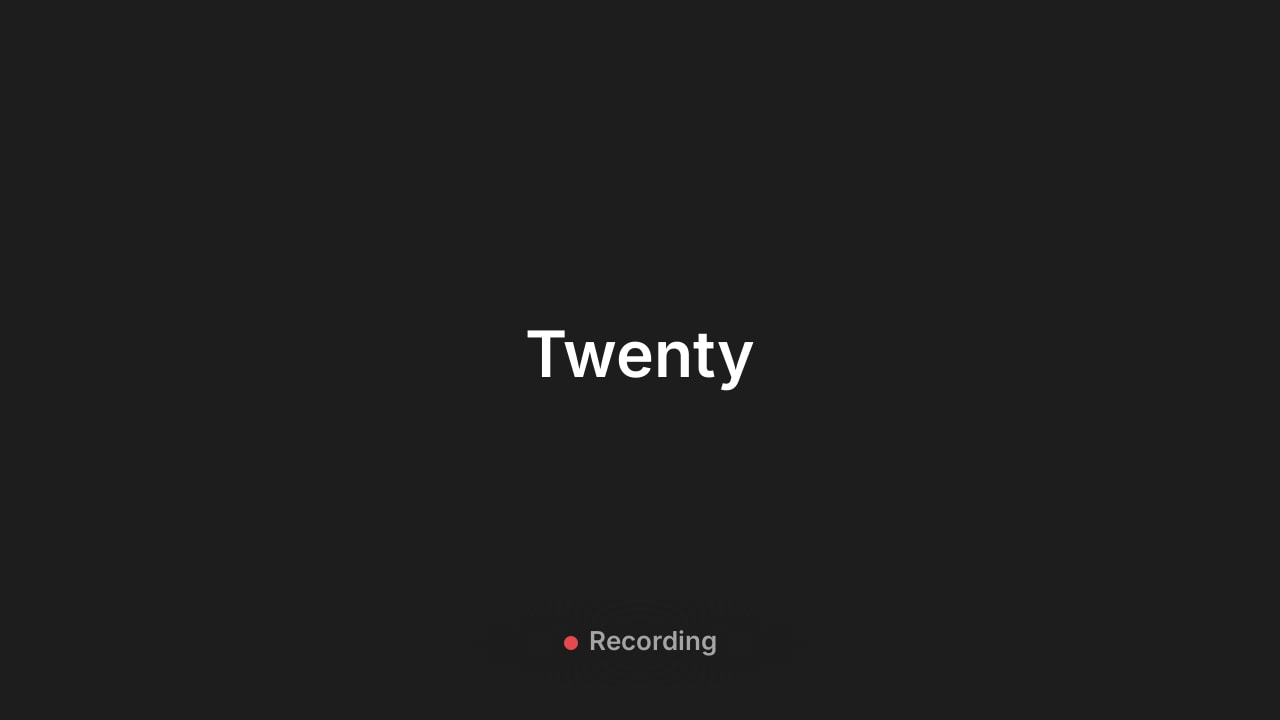
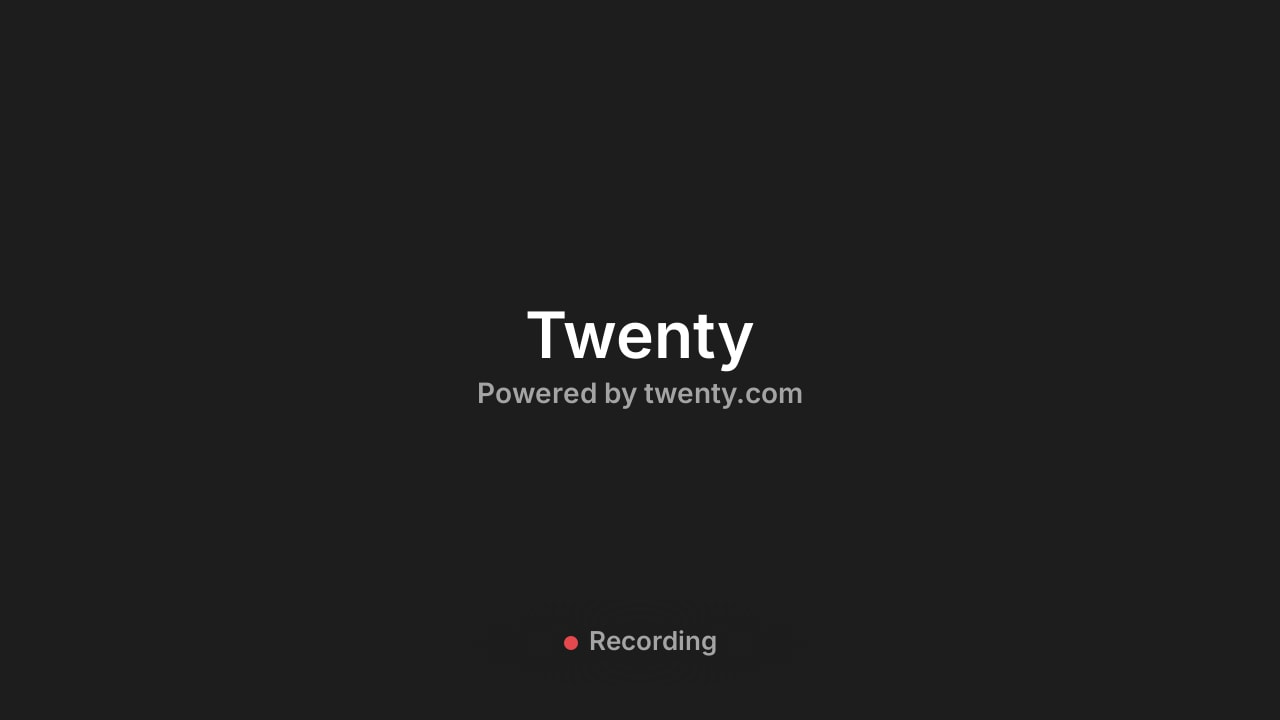
Show Powered by twenty.com on the Workspace and Minimal tiles, drop the Twenty tile subtitle

Changed region(s): [[0.375, 0.4278, 0.625, 0.5806]]

diff --git a/packages/twenty-apps/public/call-recorder/src/logic-functions/domain/__tests__/build-camera-tile-workspace-composites.test.ts b/packages/twenty-apps/public/call-recorder/src/logic-functions/domain/__tests__/build-camera-tile-workspace-composites.test.ts
@@ -1,0 +1,63 @@
+import sharp from 'sharp';
+import { beforeEach, describe, expect, it, vi } from 'vitest';
+
+import { CAMERA_TILE_POWERED_BY_LABEL } from 'src/logic-functions/constants/camera-tile-config';
+import { buildCameraTileWorkspaceComposites } from 'src/logic-functions/domain/build-camera-tile-workspace-composites.util';
+import { type CameraTileTextRenderer } from 'src/logic-functions/types/camera-tile-text-renderer.type';
+
+const renderText = vi.fn<CameraTileTextRenderer>(async () => ({
+  input: Buffer.from([]),
+  width: 200,
+  height: 30,
+}));
+
+const renderedTexts = () => renderText.mock.calls.map(([{ text }]) => text);
+
+const buildLogo = () =>
+  sharp({
+    create: { width: 64, height: 64, channels: 3, background: '#f25f29' },
+  })
+    .png()
+    .toBuffer();
+
+describe('buildCameraTileWorkspaceComposites', () => {
+  beforeEach(() => {
+    renderText.mockClear();
+  });
+
+  it('draws the workspace name with Powered by twenty.com under it', async () => {
+    const composites = await buildCameraTileWorkspaceComposites({
+      sharp,
+      renderText,
+      branding: { logo: await buildLogo(), displayName: 'Acme Inc.' },
+    });
+
+    expect(composites).toBeDefined();
+    expect(renderedTexts()).toEqual([
+      'Acme Inc.',
+      CAMERA_TILE_POWERED_BY_LABEL,
+    ]);
+  });
+
+  it('keeps Powered by twenty.com under a logo whose workspace name cannot be drawn', async () => {
+    const composites = await buildCameraTileWorkspaceComposites({
+      sharp,
+      renderText,
+      branding: { logo: await buildLogo(), displayName: '日本商事' },
+    });
+
+    expect(composites).toBeDefined();
+    expect(renderedTexts()).toEqual([CAMERA_TILE_POWERED_BY_LABEL]);
+  });
+
+  it('leaves the tile to the Twenty fallback without a logo or a drawable name', async () => {
+    const composites = await buildCameraTileWorkspaceComposites({
+      sharp,
+      renderText,
+      branding: { logo: undefined, displayName: '日本商事' },
+    });
+
+    expect(composites).toBeUndefined();
+    expect(renderText).not.toHaveBeenCalled();
+  });
+});

diff --git a/packages/twenty-apps/public/call-recorder/src/logic-functions/domain/build-camera-tile-text-block.util.ts b/packages/twenty-apps/public/call-recorder/src/logic-functions/domain/build-camera-tile-text-block.util.ts
@@ -1,6 +1,9 @@
 import { type OverlayOptions } from 'sharp';
+import { isDefined } from 'twenty-sdk/utils';
 
 import {
+  CAMERA_TILE_SUBTITLE_LINE_HEIGHT,
+  CAMERA_TILE_TEXT_LINE_GAP,
   CAMERA_TILE_TEXT_TOP,
   CAMERA_TILE_TITLE_LINE_HEIGHT,
 } from 'src/logic-functions/constants/camera-tile-config';
@@ -10,15 +13,35 @@ import { type CameraTileText } from 'src/logic-functions/domain/render-camera-ti
 
 export const buildCameraTileTextBlock = ({
   title,
+  subtitle,
 }: {
-  title: CameraTileText;
-}): { lineComposites: OverlayOptions[]; scrimSvg: string } => ({
-  lineComposites: [
-    centerCameraTileItem({ item: title, top: CAMERA_TILE_TEXT_TOP }),
-  ],
-  scrimSvg: buildCameraTileScrimSvg({
-    centerY: CAMERA_TILE_TEXT_TOP + CAMERA_TILE_TITLE_LINE_HEIGHT / 2,
-    radiusX: title.width / 2 + 160,
-    radiusY: CAMERA_TILE_TITLE_LINE_HEIGHT / 2 + 50,
-  }),
-});
+  title?: CameraTileText;
+  subtitle?: CameraTileText;
+}): { lineComposites: OverlayOptions[]; scrimSvg: string } => {
+  const subtitleTop = isDefined(title)
+    ? CAMERA_TILE_TEXT_TOP +
+      CAMERA_TILE_TITLE_LINE_HEIGHT +
+      CAMERA_TILE_TEXT_LINE_GAP
+    : CAMERA_TILE_TEXT_TOP;
+  const blockBottom = isDefined(subtitle)
+    ? subtitleTop + CAMERA_TILE_SUBTITLE_LINE_HEIGHT
+    : CAMERA_TILE_TEXT_TOP + CAMERA_TILE_TITLE_LINE_HEIGHT;
+  const blockHeight = blockBottom - CAMERA_TILE_TEXT_TOP;
+  const blockWidth = Math.max(title?.width ?? 0, subtitle?.width ?? 0);
+
+  return {
+    lineComposites: [
+      ...(isDefined(title)
+        ? [centerCameraTileItem({ item: title, top: CAMERA_TILE_TEXT_TOP })]
+        : []),
+      ...(isDefined(subtitle)
+        ? [centerCameraTileItem({ item: subtitle, top: subtitleTop })]
+        : []),
+    ],
+    scrimSvg: buildCameraTileScrimSvg({
+      centerY: CAMERA_TILE_TEXT_TOP + blockHeight / 2,
+      radiusX: blockWidth / 2 + 160,
+      radiusY: blockHeight / 2 + 50,
+    }),
+  };
+};

diff --git a/packages/twenty-apps/public/call-recorder/src/logic-functions/domain/build-camera-tile-workspace-composites.util.ts b/packages/twenty-apps/public/call-recorder/src/logic-functions/domain/build-camera-tile-workspace-composites.util.ts
@@ -7,7 +7,10 @@ import {
   CAMERA_TILE_INITIAL_FONT_SIZE,
   CAMERA_TILE_PLATE_SIZE,
   CAMERA_TILE_PLATE_TOP,
+  CAMERA_TILE_POWERED_BY_LABEL,
   CAMERA_TILE_SAFE_ZONE_WIDTH,
+  CAMERA_TILE_SECONDARY_TEXT_OPACITY,
+  CAMERA_TILE_SUBTITLE_FONT_SIZE,
   CAMERA_TILE_TITLE_FONT_SIZE,
 } from 'src/logic-functions/constants/camera-tile-config';
 import { type WorkspaceBranding } from 'src/logic-functions/data/get-workspace-branding.util';
@@ -39,6 +42,13 @@ const renderInitial = async ({
   });
 };
 
+const renderPoweredBy = (renderText: CameraTileTextRenderer) =>
+  renderText({
+    text: CAMERA_TILE_POWERED_BY_LABEL,
+    fontSize: CAMERA_TILE_SUBTITLE_FONT_SIZE,
+    opacity: CAMERA_TILE_SECONDARY_TEXT_OPACITY,
+  });
+
 export const buildCameraTileWorkspaceComposites = async ({
   sharp,
   renderText,
@@ -63,12 +73,17 @@ export const buildCameraTileWorkspaceComposites = async ({
       return undefined;
     }
 
+    const { lineComposites, scrimSvg } = buildCameraTileTextBlock({
+      subtitle: await renderPoweredBy(renderText),
+    });
+
     return [
       await renderCameraTileSvgLayer({
         sharp,
-        content: buildCameraTilePlateSvg(),
+        content: scrimSvg + buildCameraTilePlateSvg(),
       }),
       logo,
+      ...lineComposites,
     ];
   }
 
@@ -81,6 +96,7 @@ export const buildCameraTileWorkspaceComposites = async ({
       fontSize: CAMERA_TILE_TITLE_FONT_SIZE,
       maxWidth: CAMERA_TILE_SAFE_ZONE_WIDTH,
     }),
+    subtitle: await renderPoweredBy(renderText),
   });
 
   return [

diff --git a/packages/twenty-apps/public/call-recorder/src/logic-functions/domain/__tests__/build-camera-tile-text-block.test.ts b/packages/twenty-apps/public/call-recorder/src/logic-functions/domain/__tests__/build-camera-tile-text-block.test.ts
@@ -1,0 +1,47 @@
+import { describe, expect, it } from 'vitest';
+
+import {
+  CAMERA_TILE_TEXT_LINE_GAP,
+  CAMERA_TILE_TEXT_TOP,
+  CAMERA_TILE_TITLE_LINE_HEIGHT,
+} from 'src/logic-functions/constants/camera-tile-config';
+import { buildCameraTileTextBlock } from 'src/logic-functions/domain/build-camera-tile-text-block.util';
+
+const line = (width: number) => ({
+  input: Buffer.from([]),
+  width,
+  height: 30,
+});
+
+const tops = (composites: { top?: number }[]) =>
+  composites.map(({ top }) => top);
+
+describe('buildCameraTileTextBlock', () => {
+  it('places a title alone at the top of the text area', () => {
+    const { lineComposites } = buildCameraTileTextBlock({ title: line(200) });
+
+    expect(tops(lineComposites)).toEqual([CAMERA_TILE_TEXT_TOP]);
+  });
+
+  it('places the subtitle one title line and a gap below the title', () => {
+    const { lineComposites } = buildCameraTileTextBlock({
+      title: line(200),
+      subtitle: line(300),
+    });
+
+    expect(tops(lineComposites)).toEqual([
+      CAMERA_TILE_TEXT_TOP,
+      CAMERA_TILE_TEXT_TOP +
+        CAMERA_TILE_TITLE_LINE_HEIGHT +
+        CAMERA_TILE_TEXT_LINE_GAP,
+    ]);
+  });
+
+  it('moves a subtitle without a title up to the top of the text area', () => {
+    const { lineComposites } = buildCameraTileTextBlock({
+      subtitle: line(300),
+    });
+
+    expect(tops(lineComposites)).toEqual([CAMERA_TILE_TEXT_TOP]);
+  });
+});

diff --git a/packages/twenty-apps/public/call-recorder/src/logic-functions/constants/camera-tile-config.ts b/packages/twenty-apps/public/call-recorder/src/logic-functions/constants/camera-tile-config.ts
@@ -13,9 +13,12 @@ export const CAMERA_TILE_INITIAL_COLOR = '#333333';
 export const CAMERA_TILE_INITIAL_FONT_SIZE = 96;
 
 export const CAMERA_TILE_TEXT_TOP = 445;
+export const CAMERA_TILE_TEXT_LINE_GAP = 10;
 export const CAMERA_TILE_SAFE_ZONE_WIDTH = 500;
 export const CAMERA_TILE_TITLE_FONT_SIZE = 44;
 export const CAMERA_TILE_TITLE_LINE_HEIGHT = 53;
+export const CAMERA_TILE_SUBTITLE_FONT_SIZE = 28;
+export const CAMERA_TILE_SUBTITLE_LINE_HEIGHT = 34;
 
 export const CAMERA_TILE_RECORDING_FONT_SIZE = 26;
 export const CAMERA_TILE_RECORDING_BOTTOM_INSET = 64;
@@ -24,3 +27,4 @@ export const CAMERA_TILE_RECORDING_DOT_SIZE = 14;
 export const CAMERA_TILE_RECORDING_DOT_GAP = 12;
 
 export const CAMERA_TILE_RECORDING_LABEL = 'Recording';
+export const CAMERA_TILE_POWERED_BY_LABEL = 'Powered by twenty.com';
